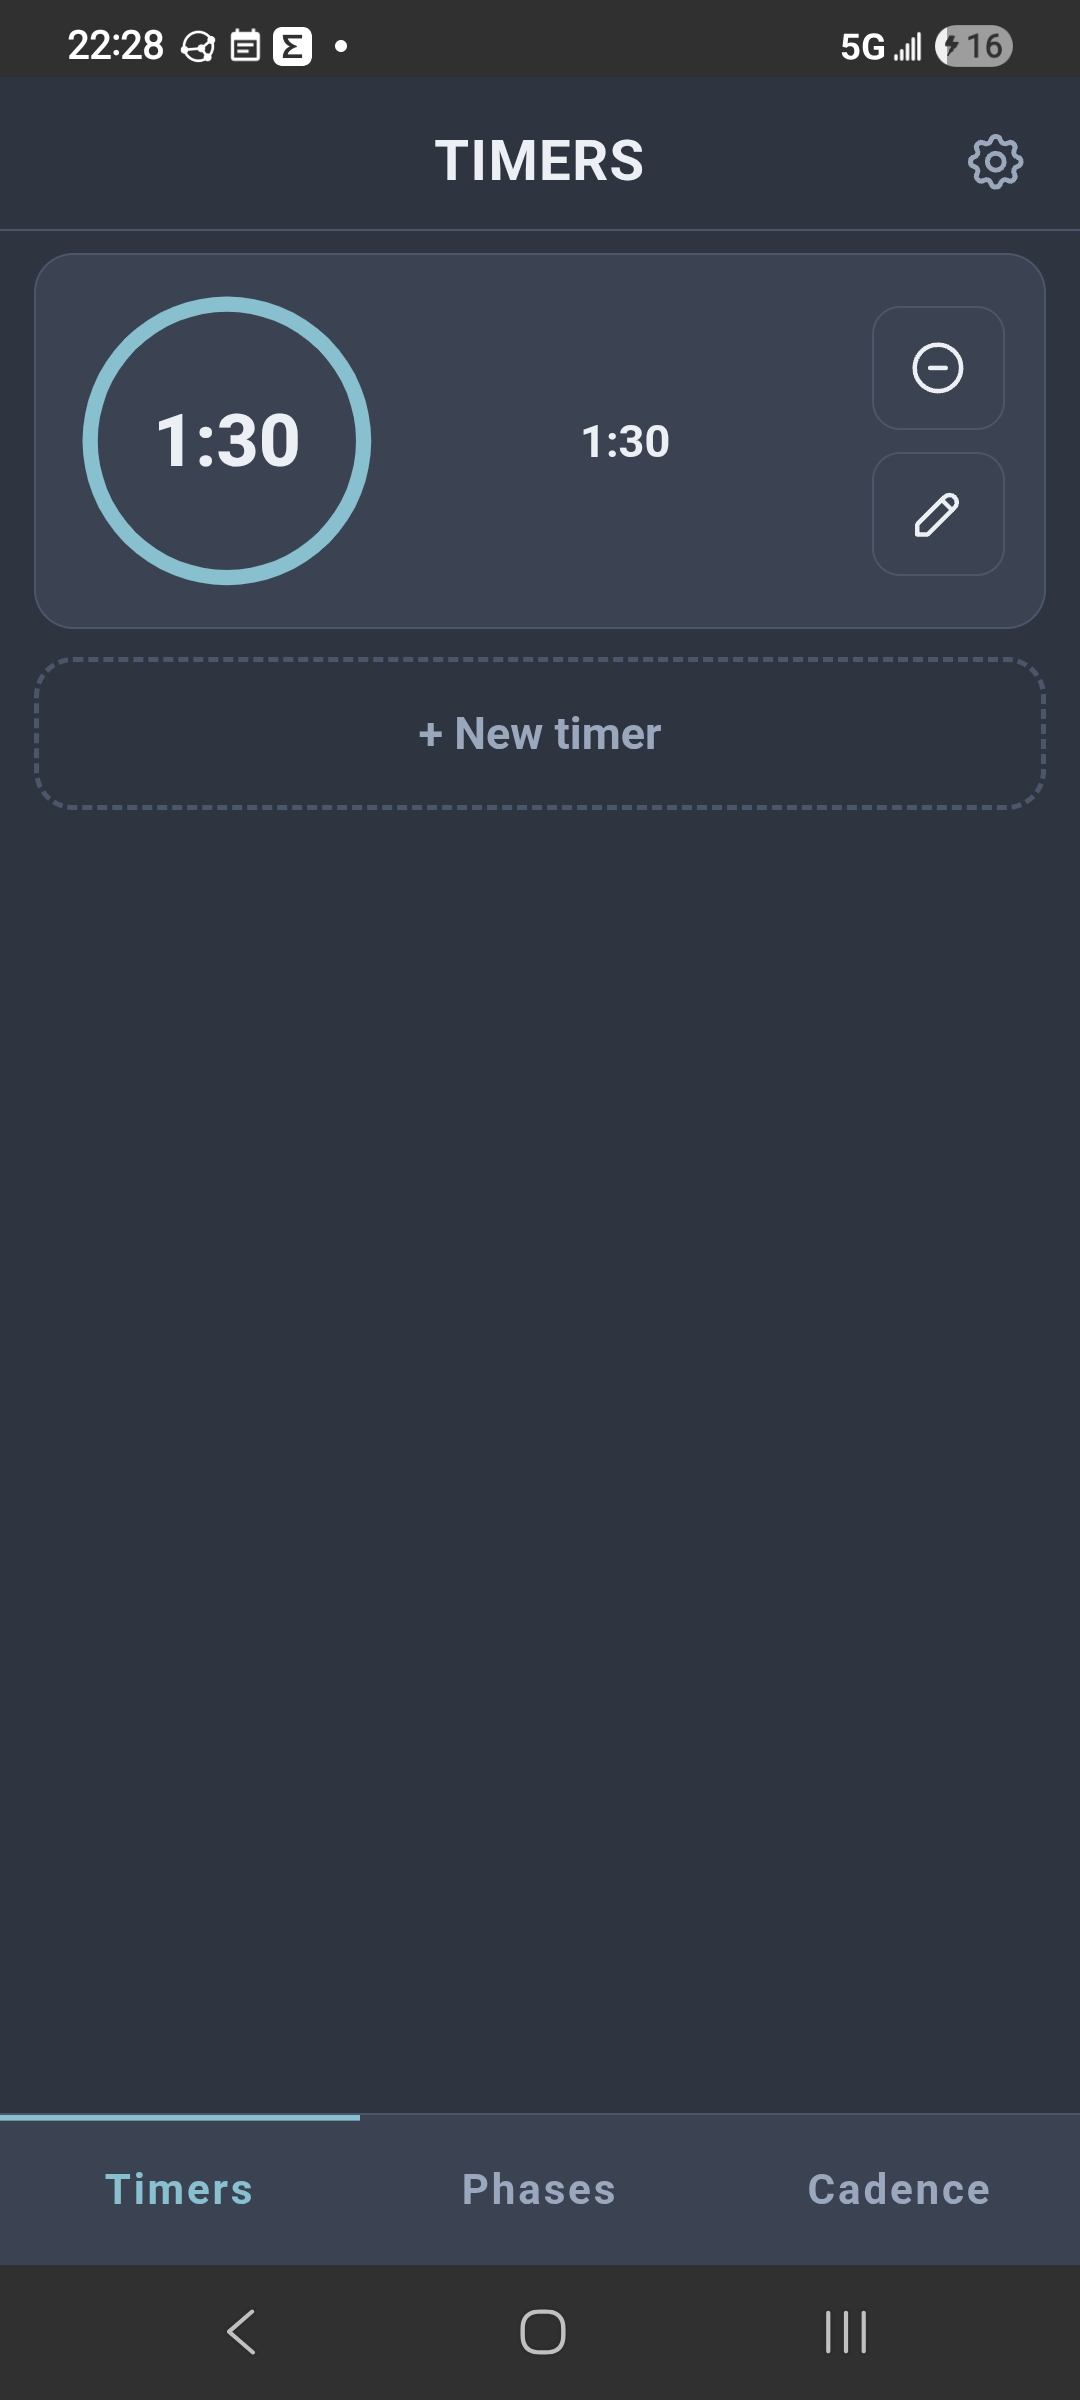
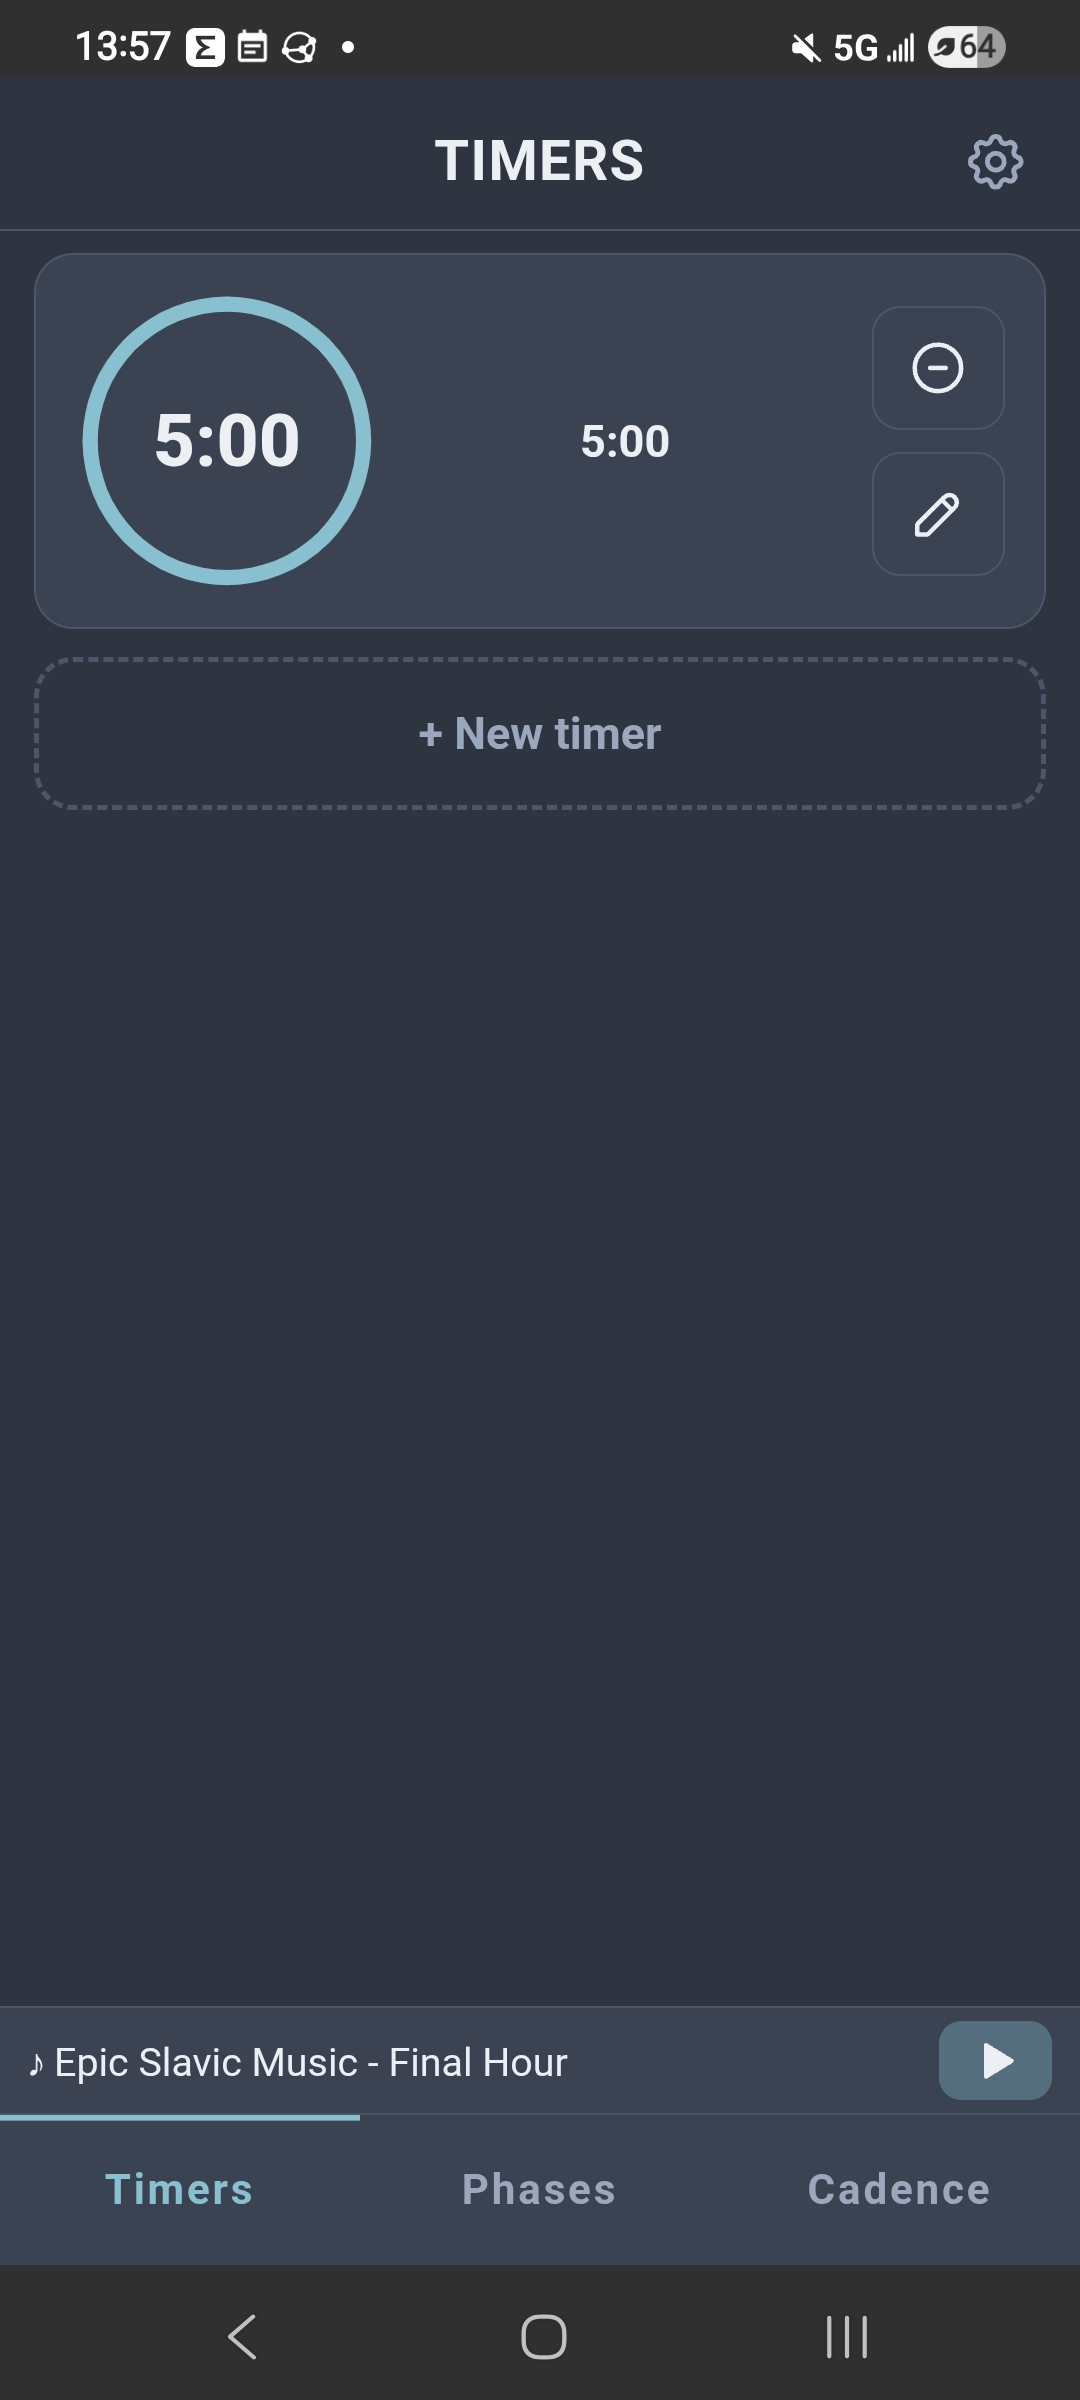
chore: release 1.2.0
Music, and the duck that is the point of it. A theme became a tree so
it could carry its own, and a player and a folder browser followed.

diff --git a/README.md b/README.md
@@ -13,17 +13,18 @@
 - **Timers that announce and stop.** A single cue when the timer reaches zero, like a sports watch, with no alarm to dismiss.
 - **Two interval modes that fit how you think.** Build workouts from work, rest, cycles, and sets, or define a block, cycle, and work duration and let the timer calculate the rest and cycle count.
 - **Variable cadence timer.** Split a block into ranges and give each range its own rate. Repeat the complete pattern across rounds.
-- **Themes that carry their sounds.** A theme is the colours, the sound of every cue, and the spoken counts, in one folder. The app ships with one; make your own from blank or from a copy, edit it in place, and see it live.
-- **Presets in categories.** Save a complete setup by name, group presets into categories, and pick one back up from the top of the screen. A category can name a theme, and picking a preset from it puts that theme on.
+- **Themes that carry their sound and their music.** A theme is the colours, the sound of every cue, the spoken counts, and the music the workout runs to, in one folder. The app ships with one; make your own from blank or from a copy, edit it in place, and see it live.
+- **Music the cues cut through.** Play your own music in the app and every cue ducks it: the song drops as the cue lands and comes back between, by however much and however fast you set.
+- **Presets in categories.** Save a complete setup by name, group presets into categories, and pick one back up from the top of the screen. A category can name a theme, and picking a preset from it puts that theme on — its look, its cues, and its music, or as much of that as the category asks for.
 - **Presets and themes that travel.** Export what a tab holds to a file, or a theme as a zip, and hand it to someone else. Import either from anywhere on the phone.
 
 ## What it can become for you
 
-Nothing above is new in kind. It is deeper. A theme is not colours any more but colours and sounds. A preset is not alone but in a category, and a category can carry a theme. Both travel.
+Nothing above is new in kind. It is deeper. A theme is not colours any more but colours, sounds and music. A preset is not alone but in a category, and a category can carry a theme. Both travel.
 
 Put those together and you are not saving a workout. You are saving a story line.
 
-A set of workouts with its own palette, its own gong, its own voice counting the reps, and names that mean something to you, is an identity. Someone who opens it does not open five squats, five push-ups, five pull-ups, five rounds. They open a room you made, and the workout is what happens in it. A program can walk them through levels of it, each with its own look and sound.
+A set of workouts with its own palette, its own gong, its own voice counting the reps, its own music underneath it all, and names that mean something to you, is an identity. Someone who opens it does not open five squats, five push-ups, five pull-ups, five rounds. They open a room you made, and the workout is what happens in it. A program can walk them through levels of it, each with its own look and sound.
 
 This is a tool for creators and for a community. It is made for sharing your programs and what stands behind them: the part of you that does not usually travel with a program. Your mood, your thinking, the zone you are in. Sounds, colours, themed categories, the names of the workouts and the workouts themselves all say it, and they say it together.
 

diff --git a/CHANGELOG.md b/CHANGELOG.md
@@ -7,6 +7,8 @@ Adheres to [Semantic Versioning](https://semver.org/spec/v2.0.0.html)
 
 ## [Unreleased]
 
+## [1.2.0] - 2026-09-26
+
 ### Fixed
 
 - Swiping the app out of the recents list left its notification behind,
